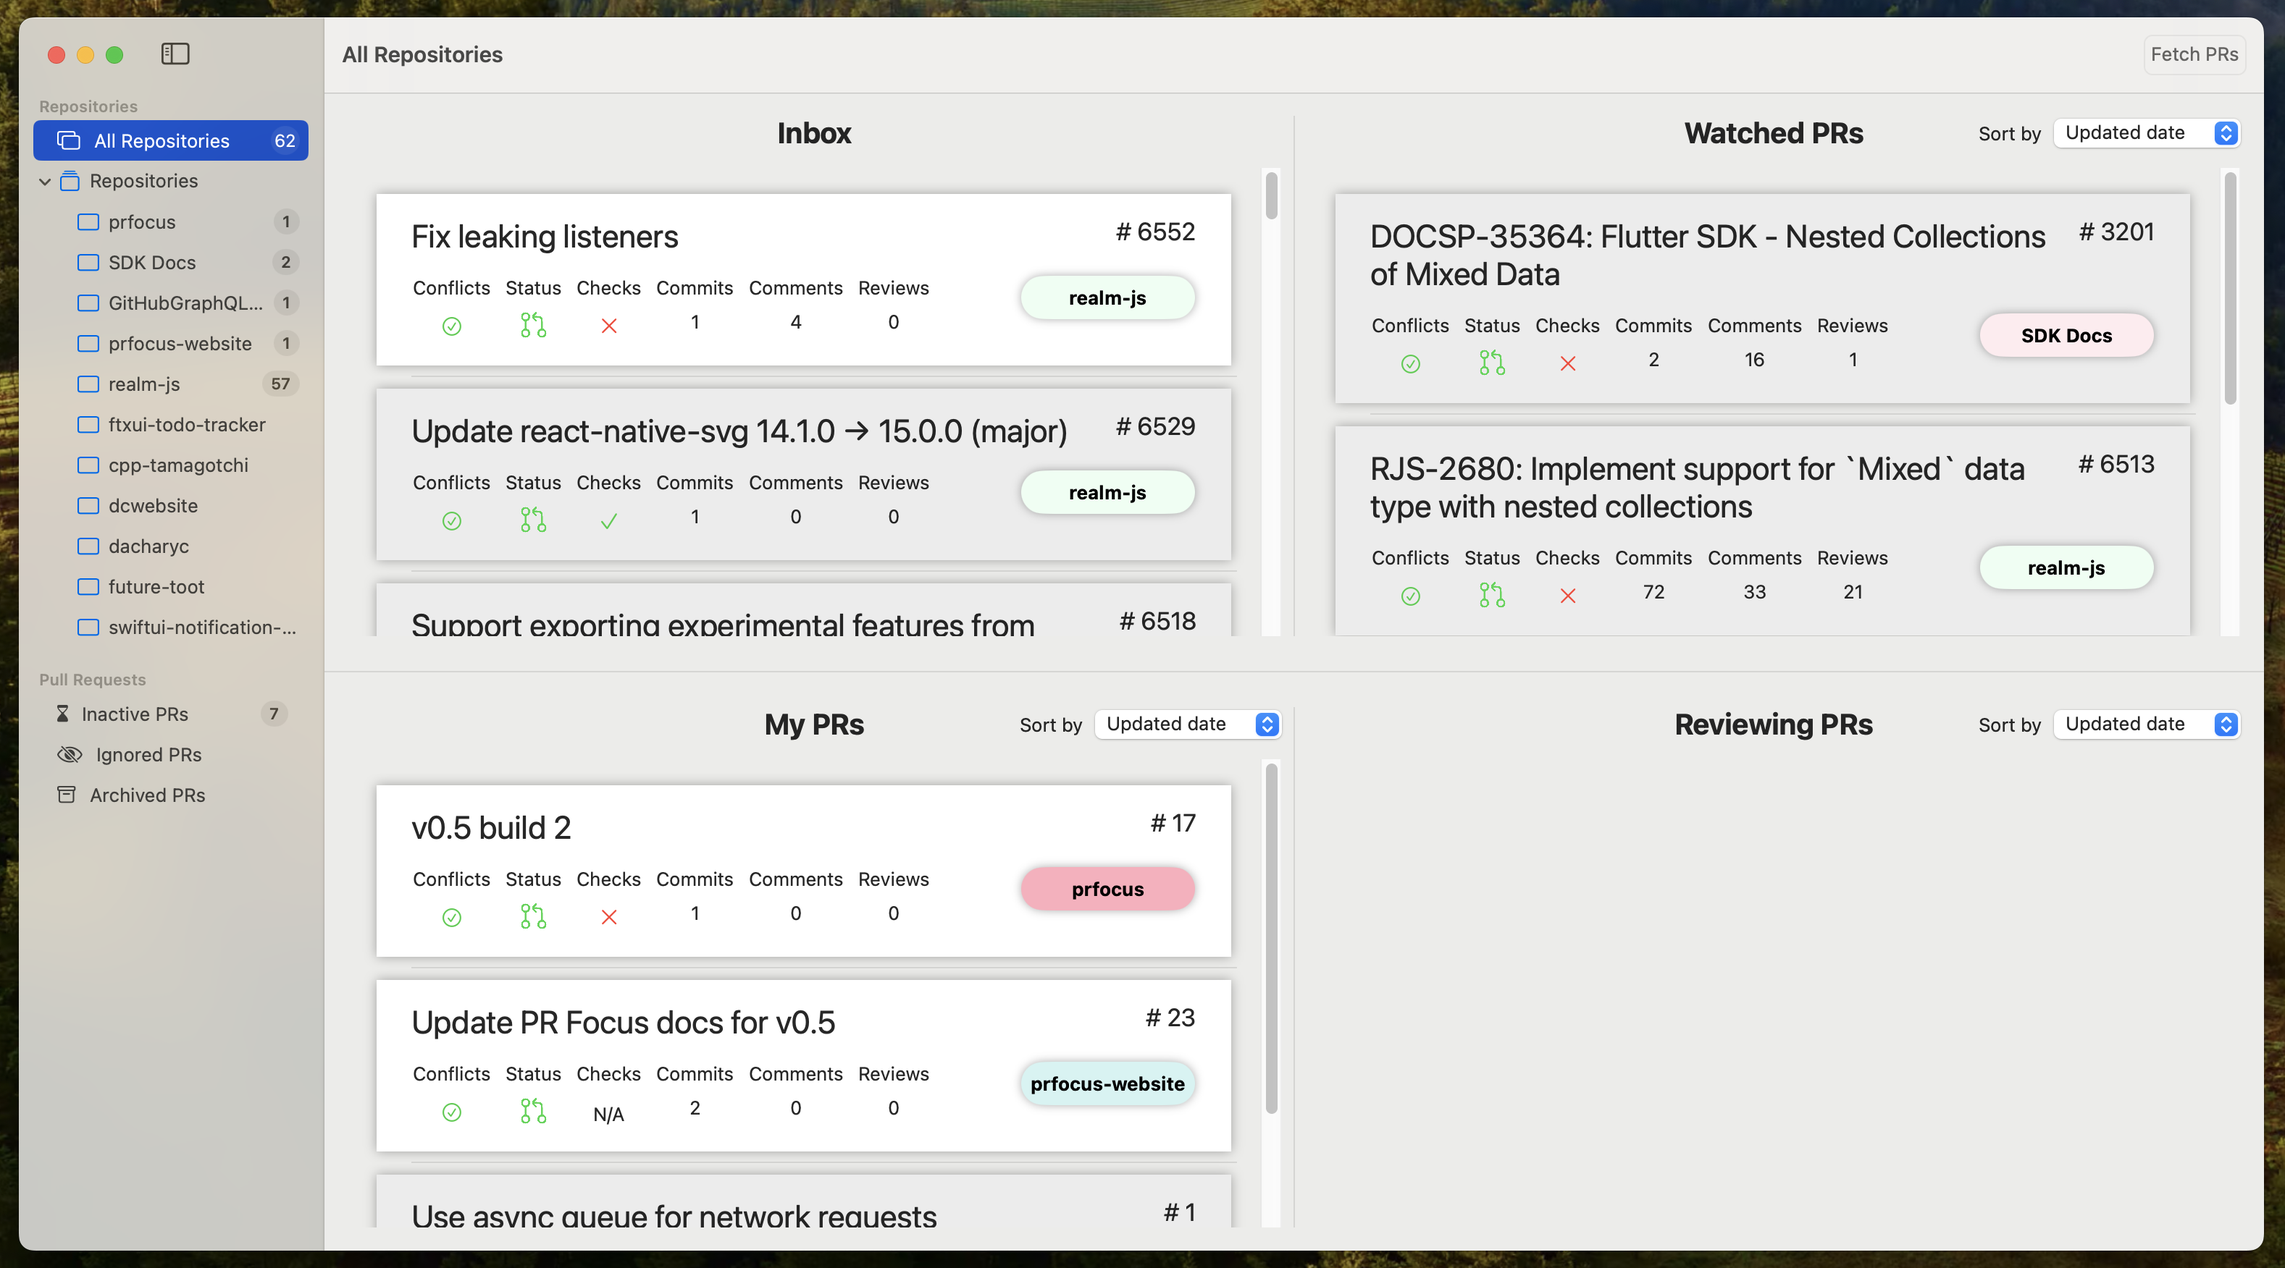
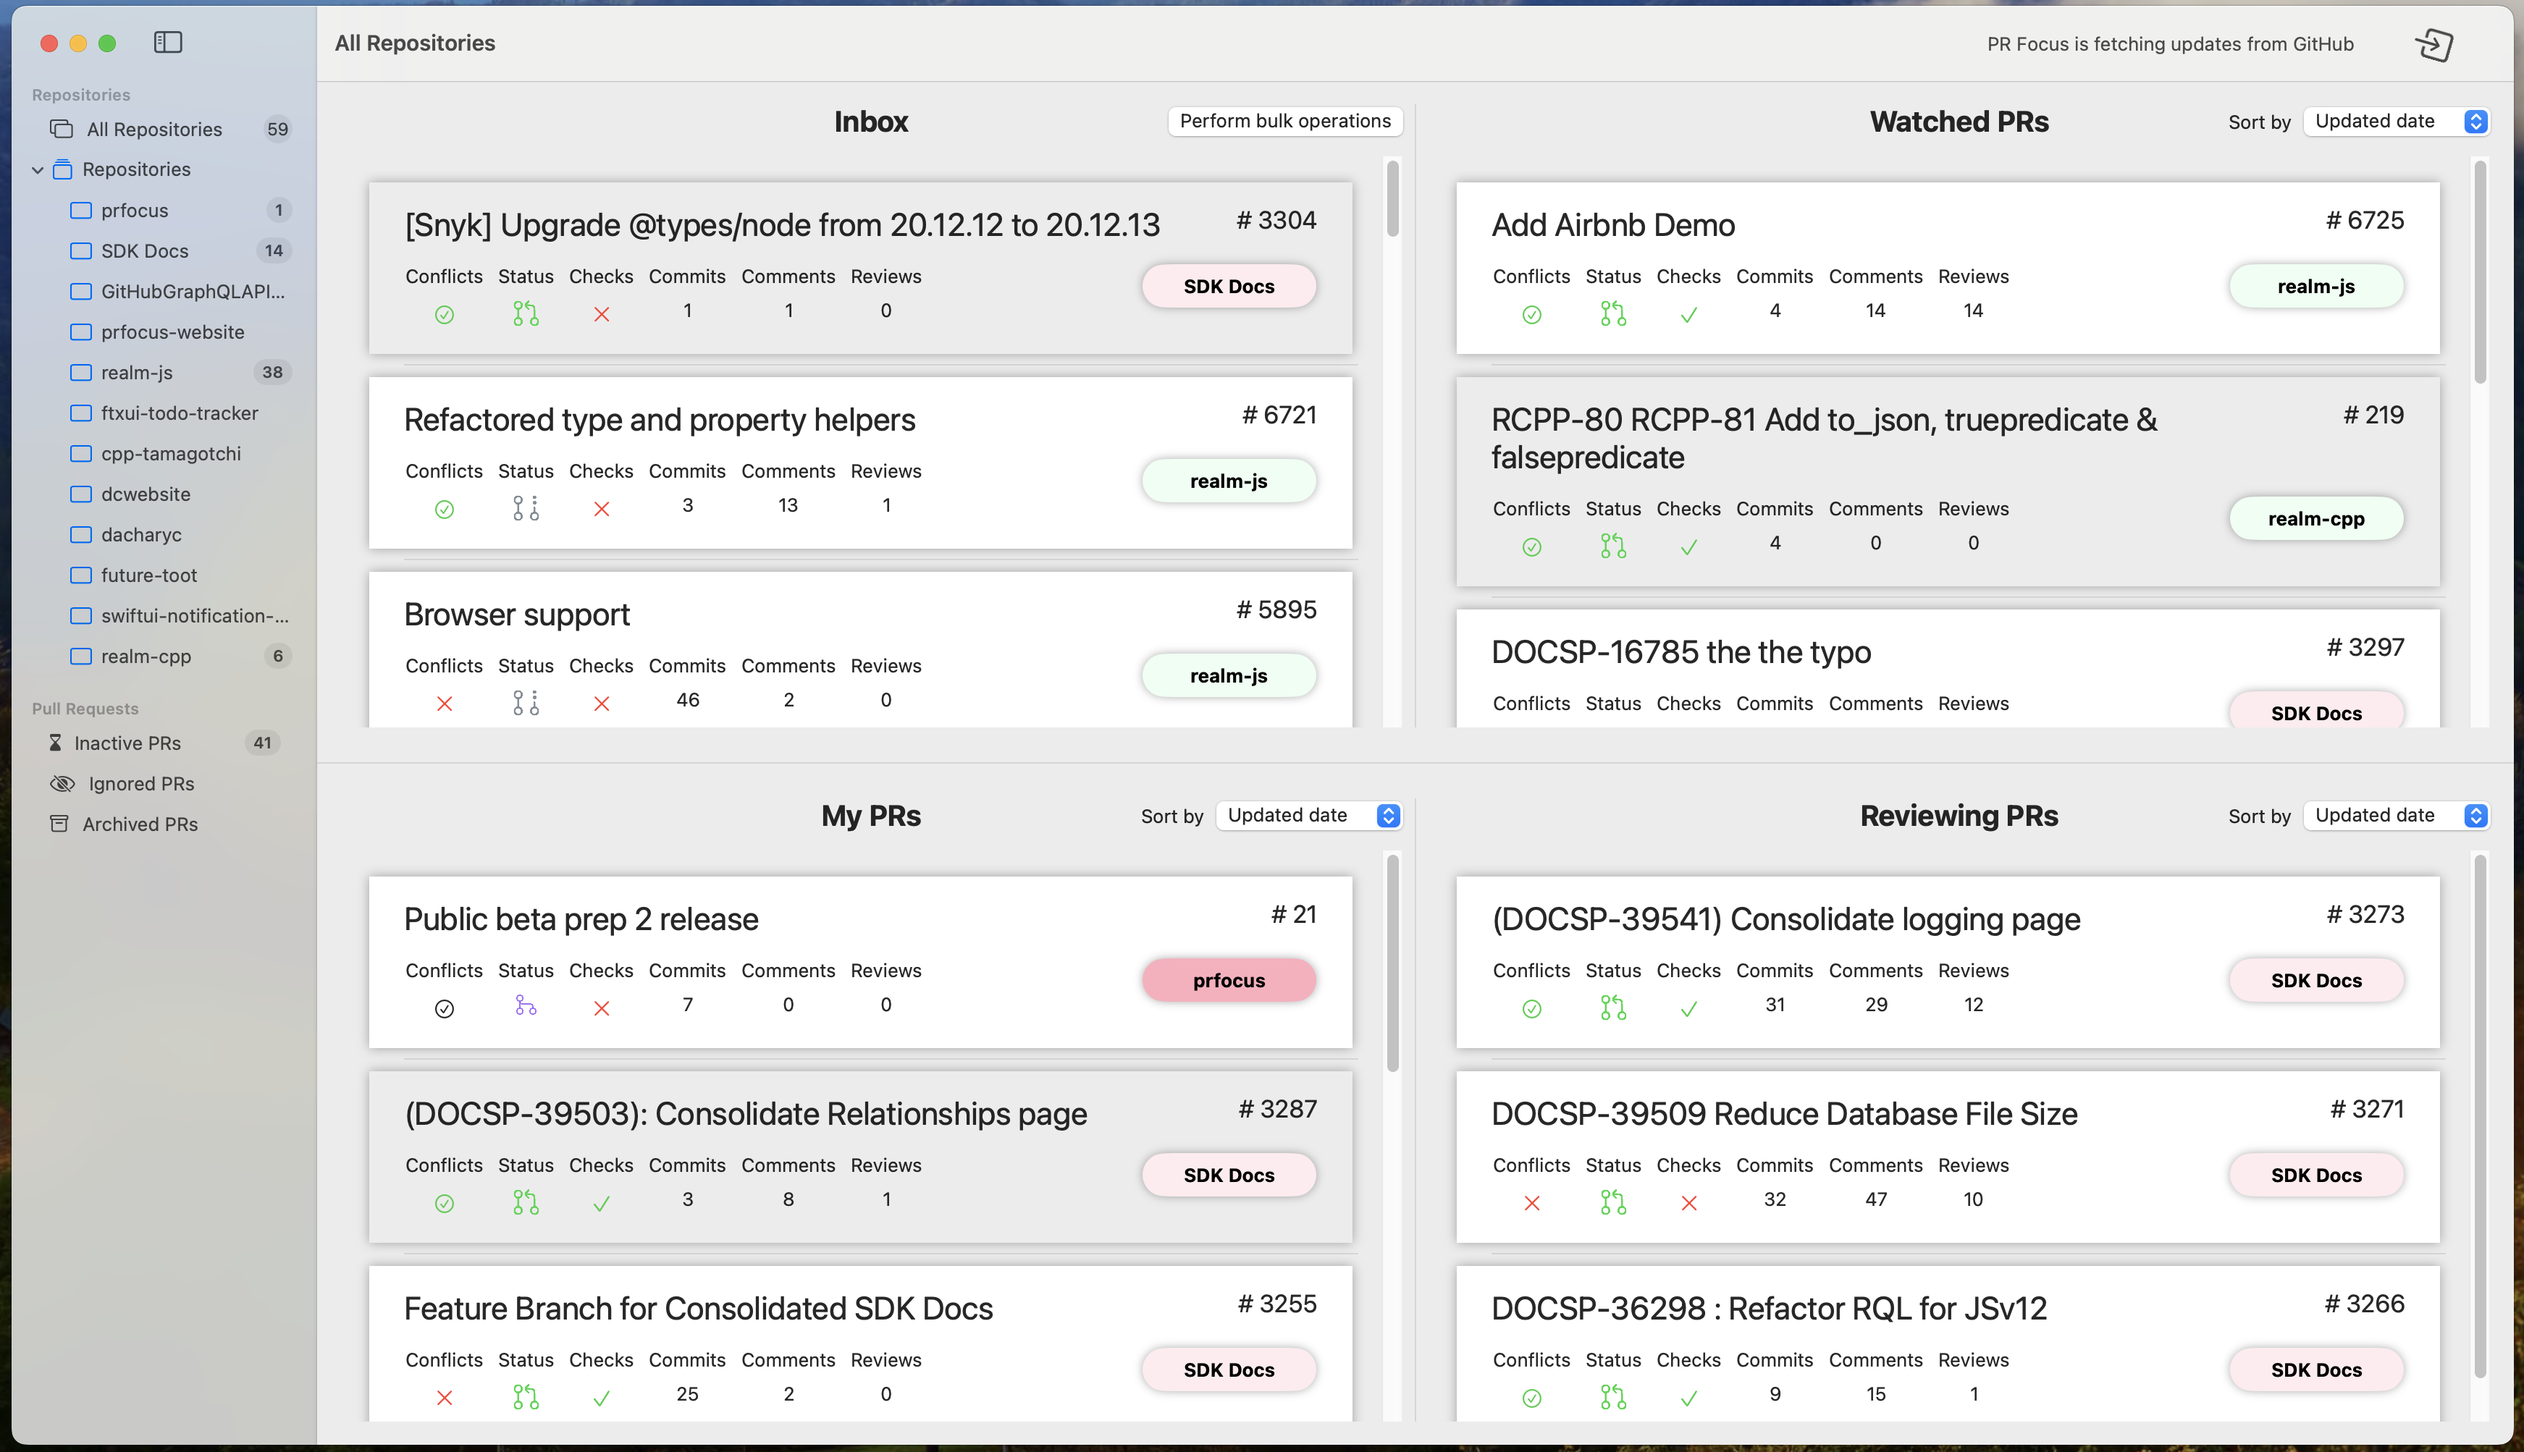
Update changelog and docs for v0.7

diff --git a/content/en/docs/repositories/view-repository.md b/content/en/docs/repositories/view-repository.md
@@ -99,15 +99,11 @@ When a new PR is opened in a repository you're watching, PR Focus checks for a f
 - Are you an assignee? If so, the PR goes to **Assigned PRs**
 - Are you a reviewer or requested reiewer? If so, the PR goes to **Reviewing PRs**
 
-If none of those things applies, the pull request appears in the **Inbox**. From here, you can view the PR's details and decide whether to Watch or Ignore a PR. If you later become a reviewer or an assigned contributor, the PR moves to one of those columns whether or not you Watch or Ignore it.
+If none of those things applies, the pull request appears in the **Inbox**. From here, you can view the PR's details and decide whether to Watch or Ignore a PR. If the PR is closed, you can Archive it. If you later become a reviewer or an assigned contributor, the PR moves to one of those columns whether or not you Watch or Ignore it.
+
+The aggregate Inbox gives you the option to perform bulk operations. You can select multiple PRs and Watch or Ignore them. If you select multiple closed PRs, you can Archive them.
 
 For more information about processing incoming PRs, refer to [Incoming PRs]({{< ref "docs/pull-requests/incoming-pr.md" >}}).
-
-#### PRs Opened and Closed Between Fetches
-
-It is possible for a PR to be opened and never appear in PR Focus. In PR Focus v0.2.x, the app only pulls down new PRs if they are open. If a new PR is opened and closed again in between the times PR Focus fetches the pull requests from the repository - for example, while you are on vacation - PR Focus does not ever see the PR.
-
-A future update for PR Focus will fetch PRs that are opened and then closed again between fetches.
 
 ### Watched PRs
 
@@ -214,13 +210,21 @@ If you configure repositories to fetch different intervals, you may see some rep
 
 ### Manually Fetch PRs
 
-Optionally, you can manually press the **Fetch PRs** button at the upper right hand of the PR Focus window. This lets you get updates from GitHub for all of the repositories you watch any time when there isn't already a job running. 
+When a job is running, you cannot manually fetch PRs. An animation appears in the PR Focus toolbar and replaces the **Fetch PRs** buttons. The buttons return when the job is complete.
+
+![Screenshot showing the animation in the toolbar that replaces the "Fetch PRs" button](/images/fetch-job-running-animation.png)
+
+#### Fetch all PRs
+
+You can manually press the **Fetch all PRs** button at the upper right hand of the PR Focus window. This gets updates from GitHub for all of the repositories you watch. 
 
 ![Screenshot showing "Fetch PRs" button in the toolbar](/images/fetch-prs-button.png)
 
-When a job is running, an animation appears in the PR Focus toolbar and replaces the **Fetch PRs** button. The button returns when the job is complete.
+#### Fetch PRs for a Specific Repository
 
-![Screenshot showing the animation in the toolbar that replaces the "Fetch PRs" button](/images/fetch-job-running-animation.png)
+You can manually press the **Fetch specific repo** button at the upper right hand of the PR Focus window. This opens a dropdown of all of the repositories you're watching. You can select a specific repository, and PR Focus fetches *only* the updates for that repository. This is useful if you're watching a lot of repositories, and don't want to wait for all of the fetch jobs to run - you can quickly fetch only the updates for a single repository.
+
+![Screenshot showing "Fetch specific repo" button in the toolbar, with the SDK Docs repository highlighted](/images/fetch-specific-repo.png)
 
 ### What Does Fetching PRs Do?
 

diff --git a/content/en/docs/pull-requests/incoming-pr.md b/content/en/docs/pull-requests/incoming-pr.md
@@ -22,12 +22,13 @@ When the PR was made by somebody other than you, and you're not an assignee or a
 
 The list of PR Summaries in your **Inbox** let you quickly scan a list of new PRs and decide whether they require action from you or you can safely ignore them. You can view PRs in your **Inbox** on a per-repository basis, or see a list of all incoming PRs in the **All Repositories** view.
 
-## Watch or Ignore PRs
+## Watch, Ignore PR, or Archive PRs
 
-You can watch or ignore a PR in one of two ways:
+You can watch, ignore, or achive a PR in one of three ways:
 
-- If you can tell from the PR Summary whether you want to watch or ignore the PR, right-click on the PR Summary and select **Watch PR** or **Ignore PR** from the context menu.
-- Click into the PR Summary to view the PR Details and decide whether you want to watch or ignore the PR. Press the **Watch** or **Ignore** button.
+- If you can tell from the PR Summary what action you want to take, right-click on the PR Summary and select **Watch PR**, **Ignore PR**, or **Archive PR** from the context menu. **Archive PR** is only available if the PR is closed.
+- Click into the PR Summary to view the PR Details and decide what action you want to take. Press the **Watch**, **Ignore**, or **Archive** buttons.
+- Click the **Perform bulk operations** button to enable multi-selection. Select multiple PRs, and press the **Watch**, **Ignore**, or **Archive** buttons. The **Archive** button becomes disabled if you select a PR that is still open, as you can only archive closed PRs. Press the **Perform bulk operations** button again to hide the bulk operation buttons and disable multi-select in the list. You can only perform bulk operations in the aggregate Inbox.
 
 You can also select the "Open in GitHub" option if you want to view details about the PR that are not available in PR Focus, such as looking at the PR diff.
 
@@ -38,6 +39,17 @@ You can also select the "Open in GitHub" option if you want to view details abou
 ### Watch or Ignore a PR from the PR Detail View
 
 ![Screenshot showing the Watch and Ignore buttons at the top of a PR Detail view](/images/watch-or-ignore-buttons.png)
+
+### Perform Bulk Operations from the Aggregate Inbox List
+
+When you press the **Perform bulk operations** button, this enables multi-selection in the Inbox list.
+
+- Select specific PRs: Command + Click to select individual PRs.
+- Range select PRs: Click on a PR, and then Shift + Click the last PR in the range.
+
+Press **Perform bulk operations** again to disable multi-selection and return the list to its normal behavior.
+
+![Screenshot showing the Watch, Ignore, and Archive buttons and multiple PRs selected when performing bulk operations](/images/perform-bulk-operations.png)
 
 ### When to Watch or Ignore PRs
 

diff --git a/CHANGELOG.md b/CHANGELOG.md
@@ -1,3 +1,27 @@
+# 0.7 Build 1
+
+This release brings some nice improvements:
+
+## Enhancements
+
+- Perform bulk operations from the aggregate Inbox view. [Feature: Bulk operations on PRs](https://github.com/dacharyc/prfocus-website/issues/25)
+- Archive and unarchive a PR while in the detail view.
+- New button to fetch the PRs for a specific repo. This is useful if you're watching a lot of repositories, and don't want to wait for all of the fetch jobs to run - you can quickly fetch only the updates for a single repository.
+
+## Fixes
+
+- Surface better error handling for disallowing an API access token with no expiration date.  [Bug: Errors if API token has no expiration date](https://github.com/dacharyc/prfocus-website/issues/24)
+- Fix a serialization error for some types of GitHub checks.
+- Check whether or not a repository has already been added to PR Focus, and don't add it again.
+
+# 0.6 Build 1
+
+This release adds support for fetching all PRs that have been opened from the date you add a repository to PR Focus. This is a change in behavior from prior versions. In prior versions, if a PR was opened and closed in between PR Focus fetches, PR Focus would never see the PR. Now, PR Focus sees *all* PRs that are open in a repo from the date that you add the repository to PR Focus. It does not fetch PRs that have already been closed before you add the repository to PR Focus.
+
+## Example
+
+I add the prfocus-website repository to PR Focus on June 19, 2024. PR Focus does not see PRs #23 and older, since those were closed prior to adding this repository to PR Focus. But it sees PR #27, which was opened after adding the repository to PR Focus - even if the PR is already closed before the next time I fetch this repository with PR Focus.
+
 # 0.5 Build 1
 
 This release features a ton of changes and improvements, including:

diff --git a/content/en/docs/pull-requests/archived-prs.md b/content/en/docs/pull-requests/archived-prs.md
@@ -39,13 +39,21 @@ Unless you have customized either the global or the repository setting for days 
 
 ### Immediately Archive a PR
 
-You don't have to wait until a PR moves to archived automatically. You can immediately archive a closed or merged PR. Right click on a closed or merged PR summary in a repository dashboard, and you'll see the `Archive PR` option. This option is not available for open PRs.
+You don't have to wait until a PR moves to archived automatically. You can immediately archive a closed or merged PR:
+
+- Right click on a closed or merged PR summary in a repository dashboard, and you'll see the `Archive PR` option.
+- Enter a PR detail view, and you'll see the **Archive PR** option alongside the **Watch** and **Ignore** buttons.
+- In the aggregate Inbox, you can press the **Perform bulk operations** button to enable multi-select. Select multiple closed PRs, and you can archive them all. If you select a PR that is not closed, the **Archive** button becomes disabled.
+
+This option is not available for open PRs.
 
 ![Screenshot showing the "Archived PR" selection in the context menu of a PR Summary rows](/images/archive-pr-immediately.png)
 
 ### Un-Archiving a PR
 
-There is no way to manually move a PR out of the **Archived PRs** dashboard and back into your Repository Dashboard and All Repositories Dashboard. 
+You can un-archive a PR from the PR Detail view. Pressing the **Un-Archive** button returns the PR to whichever column it was previously in. Note that if the PR was archived automatically, un-archiving it is only temporary until the archive job runs again. For more details, refer to Configure the Archive Interval above.
+
+![Screenshot showing the "Un-Archive PR" button in a PR Detail view](/images/un-archive-pr.png)
 
 ## Deleting Archived PRs
 

diff --git a/content/en/docs/api-key/_index.md b/content/en/docs/api-key/_index.md
@@ -17,6 +17,8 @@ Selecting this option opens a window where you can view details about your GitHu
 
 When your API key expires, PR Focus can no longer fetch updates. PR Focus warns you when the API key is close to expiring or if it has expired. You can view the expiration date of the current API key anytime from this window.
 
+PR Focus does not accept API access tokens with no expiration date.
+
 ## API Key
 
 You can change the API key that PR Focus uses to make API calls to GitHub.
